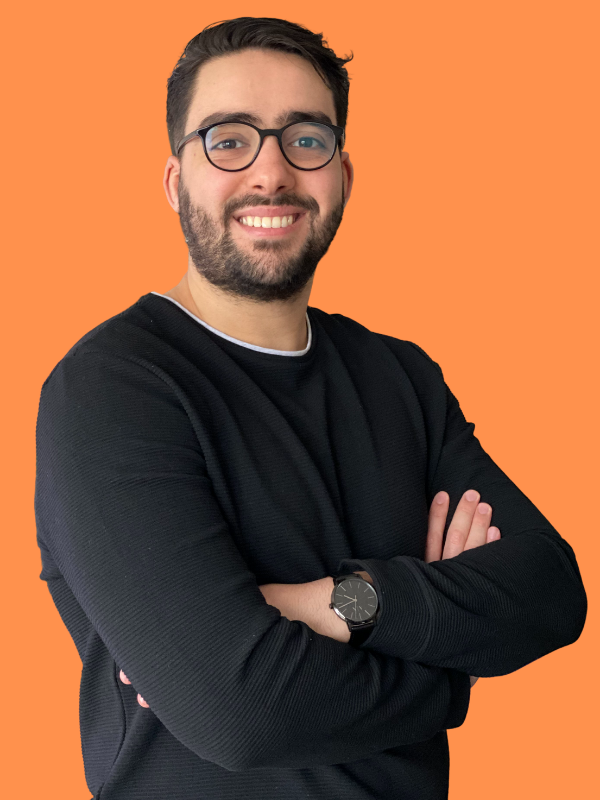
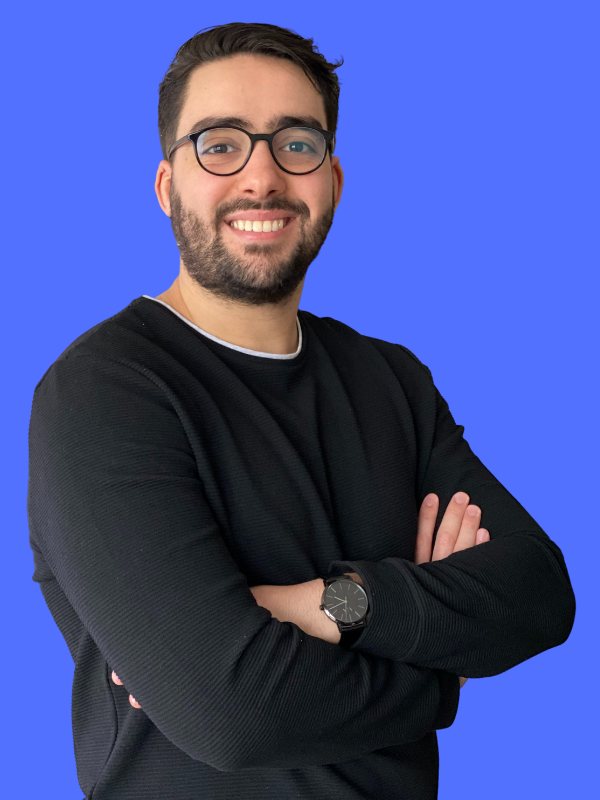
Fix bio & change profile images

diff --git a/pages/about-me.jsx b/pages/about-me.jsx
@@ -4,7 +4,7 @@
  * Email: abdelmawla.souat@gmail.com
  * -----
  * Created at: 2021-02-12 8:35:21 pm
- * Last Modified: 2021-04-11 11:58:01 pm
+ * Last Modified: 2021-04-12 2:38:22 pm
  * -----
  * Copyright (c) 2021 Yuei
  */
@@ -48,12 +48,12 @@ export default function AboutMe() {
               I am a freelancer based in Belgium. I have a real interest in
               building fast, responsive, and intuitive web applications by using
               the best and modern practices. I will provide high-quality code
-              and the smile of my clients. That is why I spend my spare time
-              improving my programming skills.
+              and the satisfaction of my clients. That is why I spend my spare
+              time improving my programming skills.
             </p>
             <p>
-              On my level, I have strong skills in the 3 essentials (HTML5, CSS3
-              & Javascript). In addition to this, I have experiences with
+              At the moment, I have strong skills in the 3 essentials (HTML5,
+              CSS3 & Javascript). In addition to this, I have experiences with
               Javascript frameworks (React.js & Vue.js), state management
               libraries (Redux & VueX), server-side rendering (Next.js), CSS
               libraries (Bootstrap, Vuetify & Material UI), backend development

diff --git a/styles/Home.module.css b/styles/Home.module.css
@@ -93,6 +93,20 @@
   }
 }
 
+@media only screen and (max-width: 600px) and (max-height: 700px) {
+  .profile img {
+    width: 230px;
+    height: 307px;
+  }
+}
+
+@media only screen and (max-width: 600px) and (min-height: 701px) {
+  .profile img {
+    width: 262px;
+    height: 350px;
+  }
+}
+
 @media only screen and (max-width: 600px) {
   .content {
     flex-direction: column-reverse;
@@ -117,11 +131,6 @@
   }
   .container .jobsListContainer {
     height: 25px;
-  }
-
-  .profile img {
-    width: 262px;
-    height: 350px;
   }
 
   @keyframes wordSwitcher {
